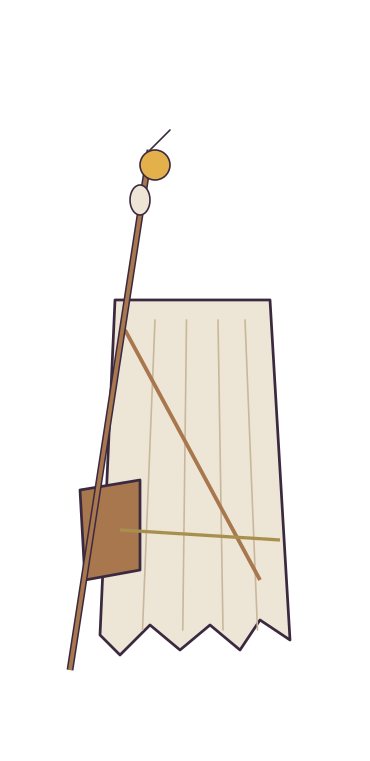
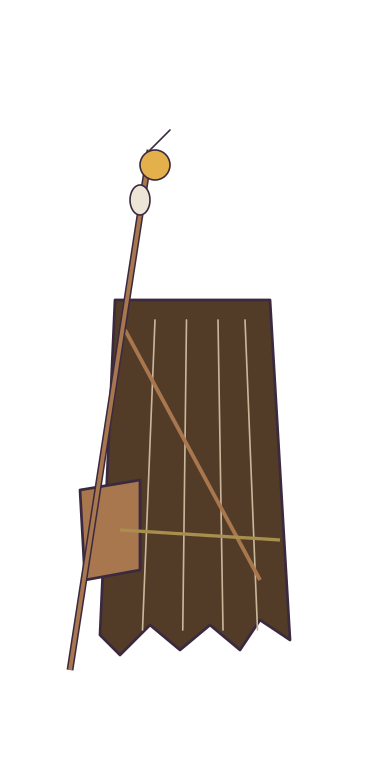
The pilgrim wears a traveller's hat over a rounded hood, in brown, with the face open.
Sam: "the pilgrim looks like a kkk member dont do that". The head was a
tall pointed hood with a veil over the face, and the costume was white
from hood to hem. Together those read as a Klan robe, whatever the
reference was.

The head is now the rounded hood the other hooded opponents wear, under
a broad-brimmed felt hat with a shell on the brim, which is the
pilgrim's hat people recognise. The costume's main color is brown_dark
and its trim straw, so no part of the pilgrim is white. The staff, the
gourd and the satchel, its signature, are unchanged. No other costume
has a pointed hood; the remaining white costumes are a kasa, a scarf and
an eboshi.

Only the pilgrim's three pictures were redrawn (analysis/art/costumes.py
pilgrim). make test-ui passed in Chromium, Firefox and WebKit; workspace: 211 tests in 39 binaries
(packaging/count-tests.sh).

Changed region(s): [[0.2676, 0.3929, 0.8027, 0.8765]]

diff --git a/analysis/art/costumes.py b/analysis/art/costumes.py
@@ -192,13 +192,15 @@ def head_piece(piece, main, trim):
         o.append(line((0, 197), (0, 220), color="gold"))
         o.append(poly([(-9.5, 194), (9.5, 195.5), (9.5, 199), (-9.5, 197.5)], "gold", THIN))
     elif piece == "pilgrim":
-        # A tall pointed hood leaning back, its veil over the face, a ragged
-        # hem at the shoulders (Sam: "dressed like a pilgrim from elden ring").
-        o.append(f"\\filldraw[fill={name(main)}, {LINE}] {P(-17, 150)} -- {P(-14, 154)} -- {P(-16, 158)} .. controls {P(-16, 195)} .. {P(-14, 232)} .. controls {P(4, 214)} .. {P(13, 196)} -- {P(14, 168)} -- {P(11, 160)} -- {P(13, 154)} -- {P(8, 150)} -- cycle;")
-        o.append(curve([(-14, 230), (-4, 214), (6, 200)], color=trim))
-        o.append(poly([(5, 192), (14, 194), (15, 162), (12, 158), (9, 162), (6, 158)], trim, THIN))
-        o.append(line((8, 190), (9, 162), color="stone"))
-        o.append(line((11, 191), (12, 162), color="stone"))
+        # A rounded hood under a broad-brimmed felt hat with a shell on the
+        # brim: a traveller's hat, with the face open. Not a tall pointed hood
+        # with a veil over the face, which reads as a Klan hood (Sam,
+        # 2026-10-10: "the pilgrim looks like a kkk member dont do that").
+        o += head_piece("hood", main, trim)
+        o.append(f"\\filldraw[fill=brown, {LINE}] {P(-12, 197)} .. controls {P(-12, 210)} .. {P(-2, 212)} .. controls {P(8, 210)} .. {P(9, 197)} -- cycle;")
+        o.append(f"\\filldraw[fill=brown, {LINE}] {P(-28, 194)} .. controls {P(-24, 199)} .. {P(-4, 200)} .. controls {P(14, 200)} .. {P(22, 196)} .. controls {P(14, 192)} .. {P(-6, 192)} .. controls {P(-20, 192)} .. {P(-28, 194)} -- cycle;")
+        o.append(curve([(-11, 199), (-2, 200.5), (8, 199)], color=trim))
+        o.append(circ(4, 203, 2.4, "bone"))
     elif piece == "feather":
         o += head_piece("cap", main, trim)
         o.append(f"\\filldraw[fill=bone, {THIN}] {P(-6, 199)} .. controls {P(-16, 214)} .. {P(-30, 218)} .. controls {P(-20, 208)} .. {P(-9, 197)} -- cycle;")
